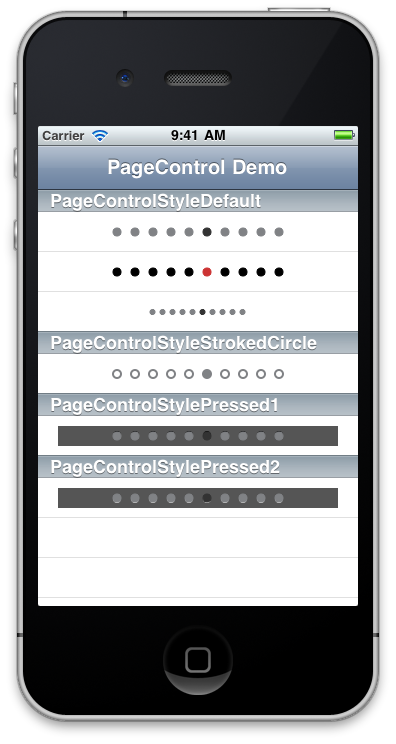
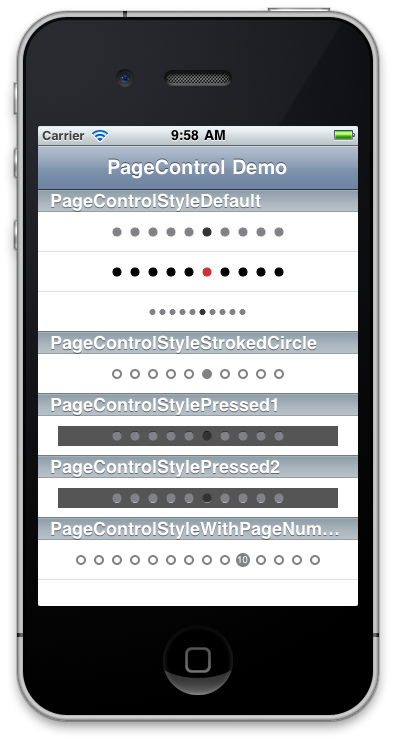
- added a new style that shows current page number - updated screenshot to show the new style

Changed region(s): [[0.0909, 0.6801, 0.9091, 0.7728], [0.4545, 0.1546, 0.5152, 0.1855]]

diff --git a/StyledPageControlDemo/PageControlDemo/StyledPageControl.m b/StyledPageControlDemo/PageControlDemo/StyledPageControl.m
@@ -99,7 +99,7 @@
     if (self.coreSelectedColor) _coreSelectedColor = self.coreSelectedColor;
     else
     {
-        if (self._pageControlStyle==PageControlStyleStrokedCircle)
+        if (self._pageControlStyle==PageControlStyleStrokedCircle || self._pageControlStyle==PageControlStyleWithPageNumber)
         {
             _coreSelectedColor = COLOR_GRAYISHBLUE;
         }
@@ -126,7 +126,7 @@
     if (self.strokeSelectedColor) _strokeSelectedColor = self.strokeSelectedColor;
     else
     {
-        if (self._pageControlStyle==PageControlStyleStrokedCircle)
+        if (self._pageControlStyle==PageControlStyleStrokedCircle || self._pageControlStyle==PageControlStyleWithPageNumber)
         {
             _strokeSelectedColor = COLOR_GRAYISHBLUE;
         }
@@ -212,6 +212,28 @@
                 CGContextFillEllipseInRect(myContext, CGRectMake(x,(self.frame.size.height-_diameter)/2,_diameter,_diameter));
                 CGContextSetStrokeColorWithColor(myContext, [_strokeSelectedColor CGColor]);
                 CGContextStrokeEllipseInRect(myContext, CGRectMake(x,(self.frame.size.height-_diameter)/2,_diameter,_diameter));
+            }
+            else
+            {
+                CGContextSetStrokeColorWithColor(myContext, [_strokeNormalColor CGColor]);
+                CGContextStrokeEllipseInRect(myContext, CGRectMake(x,(self.frame.size.height-_diameter)/2,_diameter,_diameter));
+            }
+        }
+        else if (self._pageControlStyle==PageControlStyleWithPageNumber)
+        {
+            CGContextSetLineWidth(myContext, self._strokeWidth);
+            if (i==_currentPage)
+            {
+                int _currentPageDiameter = _diameter*1.6;
+                x = (self.frame.size.width-total_width)/2 + i*(_diameter+gap) - (_currentPageDiameter-_diameter)/2;
+                CGContextSetFillColorWithColor(myContext, [_coreSelectedColor CGColor]);
+                CGContextFillEllipseInRect(myContext, CGRectMake(x,(self.frame.size.height-_currentPageDiameter)/2,_currentPageDiameter,_currentPageDiameter));
+                CGContextSetStrokeColorWithColor(myContext, [_strokeSelectedColor CGColor]);
+                CGContextStrokeEllipseInRect(myContext, CGRectMake(x,(self.frame.size.height-_currentPageDiameter)/2,_currentPageDiameter,_currentPageDiameter));
+            
+                NSString *pageNumber = [NSString stringWithFormat:@"%i", i+1];
+                CGContextSetFillColorWithColor(myContext, [[UIColor whiteColor] CGColor]);
+                [pageNumber drawInRect:CGRectMake(x,(self.frame.size.height-_currentPageDiameter)/2-1,_currentPageDiameter,_currentPageDiameter) withFont:[UIFont systemFontOfSize:_currentPageDiameter-2] lineBreakMode:UILineBreakModeCharacterWrap alignment:UITextAlignmentCenter];
             }
             else
             {

diff --git a/StyledPageControlDemo/PageControlDemo/PageControlDemoListViewController.m b/StyledPageControlDemo/PageControlDemo/PageControlDemoListViewController.m
@@ -85,7 +85,7 @@
 
 - (NSInteger)numberOfSectionsInTableView:(UITableView *)tableView
 {
-    return 4;
+    return 5;
 }
 
 - (NSInteger)tableView:(UITableView *)tableView numberOfRowsInSection:(NSInteger)section
@@ -103,6 +103,10 @@
         return 1;
     }
     else if (section==3)
+    {
+        return 1;
+    }
+    else if (section==4)
     {
         return 1;
     }
@@ -126,6 +130,10 @@
     else if (section==3)
     {
         return @"PageControlStylePressed2";
+    }
+    else if (section==4)
+    {
+        return @"PageControlStyleWithPageNumber";
     }
     else return nil;
 }
@@ -182,6 +190,12 @@
         [cell.pageControl setPageControlStyle:PageControlStylePressed2];
         [cell.pageControl setBackgroundColor:[UIColor darkGrayColor]];
     }
+    else if (indexPath.section==4)
+    {
+        [cell.pageControl setPageControlStyle:PageControlStyleWithPageNumber];
+        [cell.pageControl setNumberOfPages:14];
+    }
+
     
     return cell;
 }

diff --git a/StyledPageControlDemo/PageControlDemo/StyledPageControl.h b/StyledPageControlDemo/PageControlDemo/StyledPageControl.h
@@ -40,7 +40,8 @@ typedef enum
     PageControlStyleDefault = 0,
     PageControlStyleStrokedCircle = 1,
     PageControlStylePressed1 = 2,
-    PageControlStylePressed2 = 3
+    PageControlStylePressed2 = 3,
+    PageControlStyleWithPageNumber = 4
 } PageControlStyle;
 
 @interface StyledPageControl : UIControl {

diff --git a/README.md b/README.md
@@ -6,11 +6,12 @@ Customizable PageControl for iOS
 StyledPageControl is made work like UIPageControl in iOS, but more customizable.
 
 #### Features
-* 4 Styles
+* 5 Styles
 * change colors
 * change diameter
 * change gap width
 * change stroke width
+* show current page number
 
 [twitter.com/honcheng](http://twitter.com/honcheng)
 
